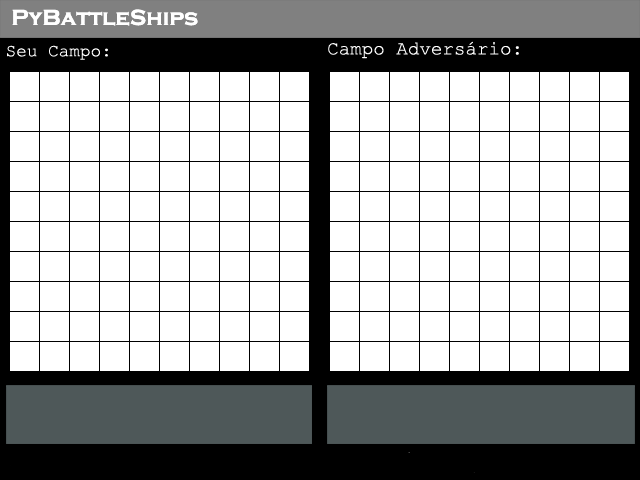
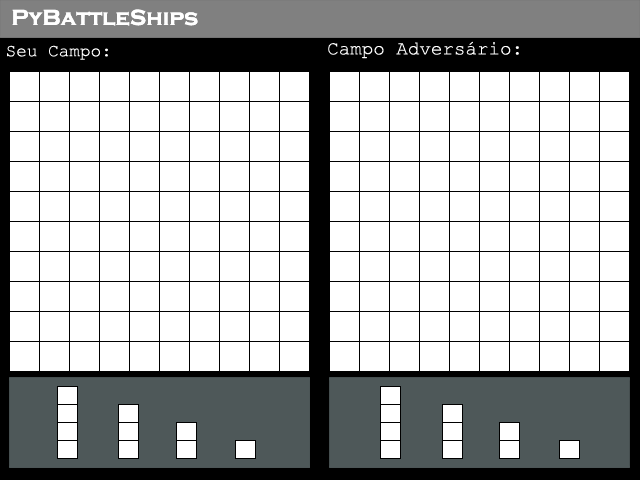
single-mode almost finished

Changed region(s): [[0.0, 0.7812, 1.0, 1.0]]

diff --git a/data/jogo.py b/data/jogo.py
@@ -17,15 +17,17 @@ class Jogo(object):
 		self.screen.blit(campo, (0, 0))
 
 		barco_teste = pygame.image.load(filepath("barco.png"));
-		self.screen.blit(barco_teste, (60, 390))
+		#self.screen.blit(barco_teste, (60, 390))
 		clickable[barco_teste] = (60,390) #poe a posicao do elemento no dict de elementos clicaveis
 		#pygame.mixer.music.stop()
 
 #Mapa da tela
 #============================		
-		matriz_tela = cria_mapa(330, 72)
-		matriz_jogo = cria_matriz_de_barcos()
-		print matriz_jogo
+		matriz_tela_com = cria_mapa(330, 72)
+		matriz_jogo_com = cria_matriz_de_barcos()
+		matriz_tela_player = cria_mapa(10,72)
+		matriz_jogo_player = cria_matriz_de_barcos()
+		#print matriz_jogo_com
 #============================
 		start_rect = barco_teste.get_rect()
 		image_rect = start_rect
@@ -38,6 +40,7 @@ class Jogo(object):
 			for evento in pygame.event.get():	
 				if evento.type == pygame.QUIT:
 					exit()
+				#print evento
 				if barco_selecionado:
 					while not evento.type == MOUSEBUTTONUP:
 						for evento in pygame.event.get():
@@ -57,18 +60,42 @@ class Jogo(object):
 								
 					#verificar qual quadrado o usuario clicou
 					#=======================================	
-						quadrado_clicado = verifica_quadrado_clicado(matriz_tela,evento)
+						quadrado_clicado = verifica_quadrado_clicado(matriz_tela_com,evento)
 						if quadrado_clicado!=None:
-							if matriz_jogo[quadrado_clicado[0]][quadrado_clicado[1]] > 0:
-								self.screen.blit(imagem_acertou, (matriz_tela[quadrado_clicado[0]][quadrado_clicado[1]][0]-1,matriz_tela[quadrado_clicado[0]][quadrado_clicado[1]][1]-1))
-								pygame.mixer.music.load(musicapath("explosao.ogg"))  # Carrega som da bomba
-								pygame.mixer.music.play()
-								pygame.mixer.music.queue(musicapath("menu.ogg"))
+							if matriz_jogo_com[quadrado_clicado[0]][quadrado_clicado[1]] == 11:
+								continue
+							if matriz_jogo_com[quadrado_clicado[0]][quadrado_clicado[1]] > 0:
+								self.screen.blit(imagem_acertou, (matriz_tela_com[quadrado_clicado[0]][quadrado_clicado[1]][0]-1,matriz_tela_com[quadrado_clicado[0]][quadrado_clicado[1]][1]-1))
+								#pygame.mixer.music.load(musicapath("explosao.ogg"))  # Carrega som da bomba
+								#pygame.mixer.music.play()
+								#pygame.mixer.music.queue(musicapath("menu.ogg"))
 								pygame.display.update()
-							if matriz_jogo[quadrado_clicado[0]][quadrado_clicado[1]] <= 0:
-								self.screen.blit(imagem_nada, (matriz_tela[quadrado_clicado[0]][quadrado_clicado[1]][0]-1,matriz_tela[quadrado_clicado[0]][quadrado_clicado[1]][1]-1))
+								matriz_jogo_com[quadrado_clicado[0]][quadrado_clicado[1]] = 11
+								tiro = tiro_aleatorio(matriz_jogo_player)
+							
+								if matriz_jogo_player[tiro[0]][tiro[1]] > 0 and matriz_jogo_player[tiro[0]][tiro[1]] < 11:
+									self.screen.blit(imagem_acertou, (matriz_tela_player[tiro[0]][tiro[1]][0]-1,matriz_tela_player[tiro[0]][tiro[1]][1]-1))
+									matriz_jogo_player[tiro[0]][tiro[1]] = 11
+								else:
+									self.screen.blit(imagem_nada, (matriz_tela_player[tiro[0]][tiro[1]][0]-1,matriz_tela_player[tiro[0]][tiro[1]][1]-1))
+									matriz_jogo_player[tiro[0]][tiro[1]] = 11									
+								pygame.display.update()
+							
+							if matriz_jogo_com[quadrado_clicado[0]][quadrado_clicado[1]] <= 0:
+								self.screen.blit(imagem_nada, (matriz_tela_com[quadrado_clicado[0]][quadrado_clicado[1]][0]-1,matriz_tela_com[quadrado_clicado[0]][quadrado_clicado[1]][1]-1))
 								pygame.mixer.music.load(musicapath("agua.ogg"))  # Carrega som da agua
 								pygame.mixer.music.queue(musicapath("menu.ogg"))
 								pygame.mixer.music.play()
+								pygame.display.update()
+								matriz_jogo_com[quadrado_clicado[0]][quadrado_clicado[1]] = 11
+								tiro = tiro_aleatorio(matriz_jogo_player)
+							
+								if matriz_jogo_player[tiro[0]][tiro[1]] <= 0:
+									self.screen.blit(imagem_nada, (matriz_tela_player[tiro[0]][tiro[1]][0]-1,matriz_tela_player[tiro[0]][tiro[1]][1]-1))
+									matriz_jogo_player[tiro[0]][tiro[1]] = 11
+								
+								elif matriz_jogo_player[tiro[0]][tiro[1]] > 0 and matriz_jogo_player[tiro[0]][tiro[1]] < 11:
+									self.screen.blit(imagem_acertou, (matriz_tela_player[tiro[0]][tiro[1]][0]-1,matriz_tela_player[tiro[0]][tiro[1]][1]-1))
+									matriz_jogo_player[tiro[0]][tiro[1]] = 11
 								pygame.display.update()
 					#=======================================	

diff --git a/data/menu.py b/data/menu.py
@@ -21,8 +21,8 @@ class Menu(object):
 		dicionario_elementos_clicaveis[botao_novojogo] = (21,420) #poe a posicao do elemento no dict
 		dicionario_elementos_clicaveis[botao_sobre] = (295,420) #poe a posicao do botao sobre no dict
 		dicionario_elementos_clicaveis[botao_sair] = (540,420)  #poe a posicao do botao saida no dict
-		pygame.mixer.music.load(musicapath("menu.ogg"))  # Carrega a musica do menu
-		pygame.mixer.music.play(-1) # TOCA A MUSICA DO MENU SEM PARAR
+		#pygame.mixer.music.load(musicapath("menu.ogg"))  # Carrega a musica do menu
+		#pygame.mixer.music.play(-1) # TOCA A MUSICA DO MENU SEM PARAR
 		menu = 1
 		botao_novojogo_pressionado = False
 		botao_sobre_pressionado = False

diff --git a/data/functions.py b/data/functions.py
@@ -44,6 +44,15 @@ def verifica_quadrado_clicado(matriz_tela,evento):
 				if evento.pos[1] >= matriz_tela[i][j][1] and evento.pos[1]<=matriz_tela[i][j][1]+30:
 					return (i,j)	
 
+def tiro_aleatorio(matriz):
+	atirou = False
+	while not atirou:
+		x = random.randint(0,9)
+		y = random.randint(0,9)
+		if matriz[x][y]<11:
+			atirou = True
+	return (x,y)
+
 def cria_matriz_de_barcos():
 	#cria a matriz 10x10
 	matriz = []
